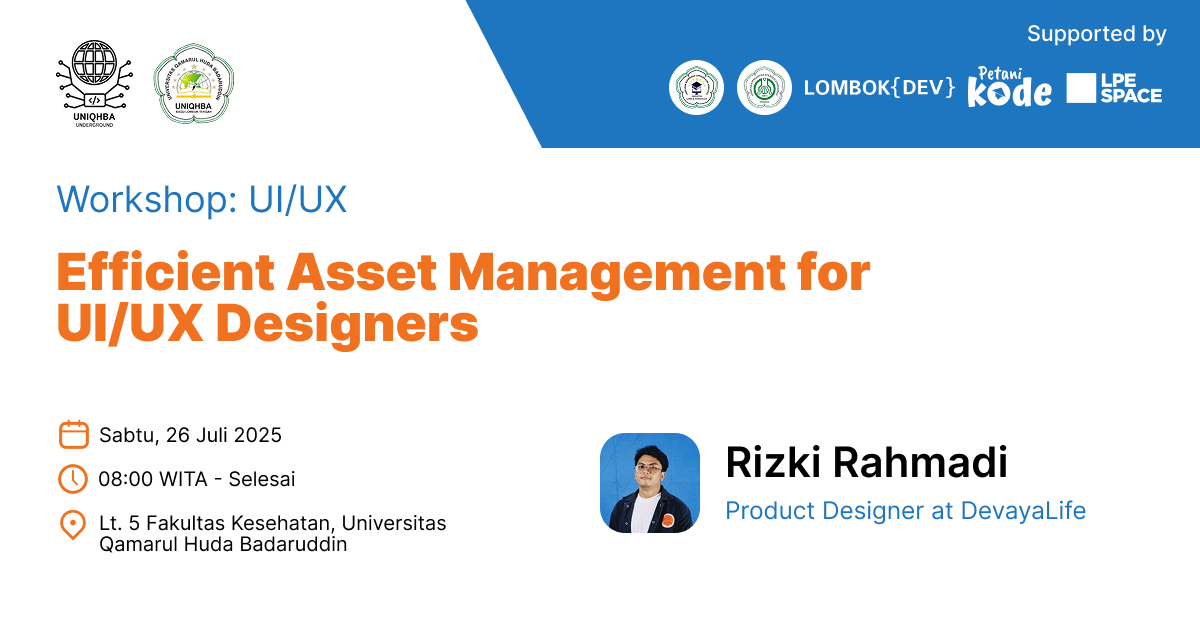
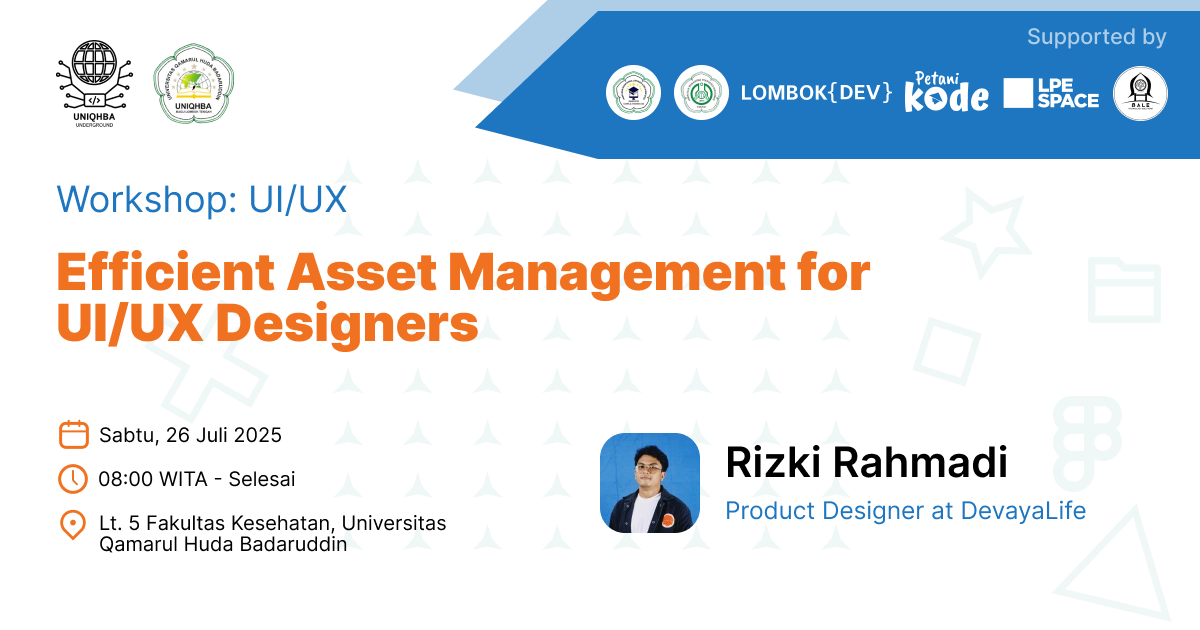
[feat] add image jumbotron

diff --git a/src/routes/(app)/about/+page.svelte b/src/routes/(app)/about/+page.svelte
@@ -9,6 +9,13 @@
 
 <div class="container min-h-[700px] mx-auto">
   <div class="w-full flex flex-col gap-5 mt-5 md:mt-8 px-5 md:px-0">
+    <div class="w-full h-auto aspect-auto rounded-2xl overflow-hidden">
+      <img
+        src="/img/gallery/jumbotron.png"
+        alt=""
+        class="w-full h-auto"
+      />
+    </div>
     <h1 class="text-3xl font-bold">Tentang Kami</h1>
     <p>Komunitas IT Mahasiswa UNIQHBA (Universitas Qamarul Huda Badaruddin Bagu). Komunitas ini di bentuk untuk mahasiswa yang tertarik dan ingin memperdalam pengetahuan, skill, jejaring sosial di bidang Teknologi Informasi, entah di bidang Programming, Desain Grafis, Cyber Security, dan salainnya. Kita belajar, berbagi informasi, berdiskusi, serta membantu satu sama lain dalam memahami ilmu - ilmu di bidang IT.</p>
     <div class="flex flex-col gap-3">

diff --git a/src/routes/(app)/event/[slug]/+page.svelte b/src/routes/(app)/event/[slug]/+page.svelte
@@ -26,8 +26,6 @@
   function isDateInFuture(dateStr: string): boolean {
     const inputDate = new Date(dateStr);
     const today = new Date();
-    today.setHours(0, 0, 0, 0);
-    inputDate.setHours(0, 0, 0, 0);
     return inputDate > today;
   }
 
@@ -68,7 +66,7 @@
       </div>
       <div class="flex flex-col md:grid grid-cols-7 gap-6">
         <div class="col-span-3 flex flex-col gap-3">
-          <div class="border border-neutral-100 overflow-hidden object-cover h-auto w-full rounded-lg group">
+          <div class="border border-neutral-100 overflow-hidden object-cover h-auto w-full rounded-lg group shadow">
             <img
               src={ourEvent.image_url}
               alt=""

diff --git a/src/data/events/events.ts b/src/data/events/events.ts
@@ -21,9 +21,12 @@ export const OurEvents: OurEvent[] = [
     field: FieldUIUX,
     isPublic: true,
     partners: [
-      'LPE Space',
-      'Petani Kode',
+      'HMJ Ilmu Komputer UNIQHBA',
+      'HMJ Teknologi Informasi UNIQHBA',
       'Lombok Dev',
+      'Petani Kode',
+      'LPE Space',
+      'CV. Bale Technology Solutions'
     ],
     registration_link: 'https://s.id/FYCeT'
   },
